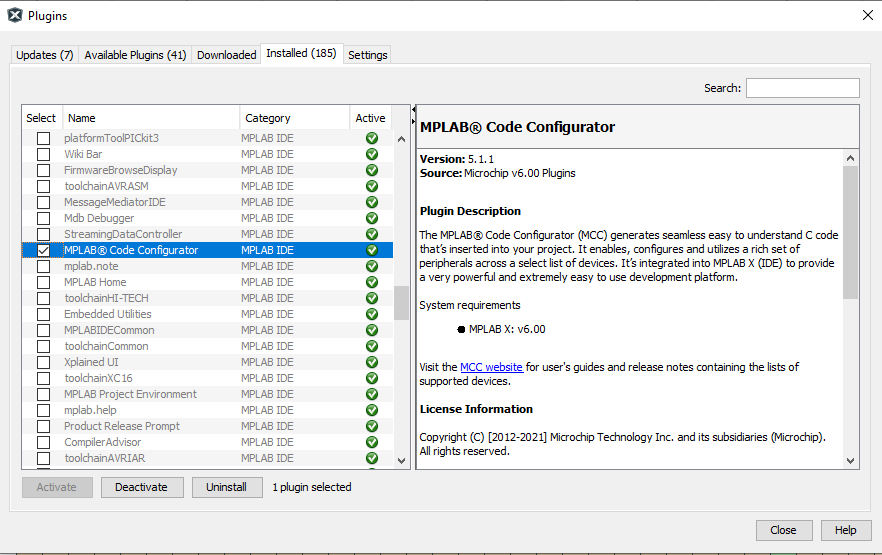
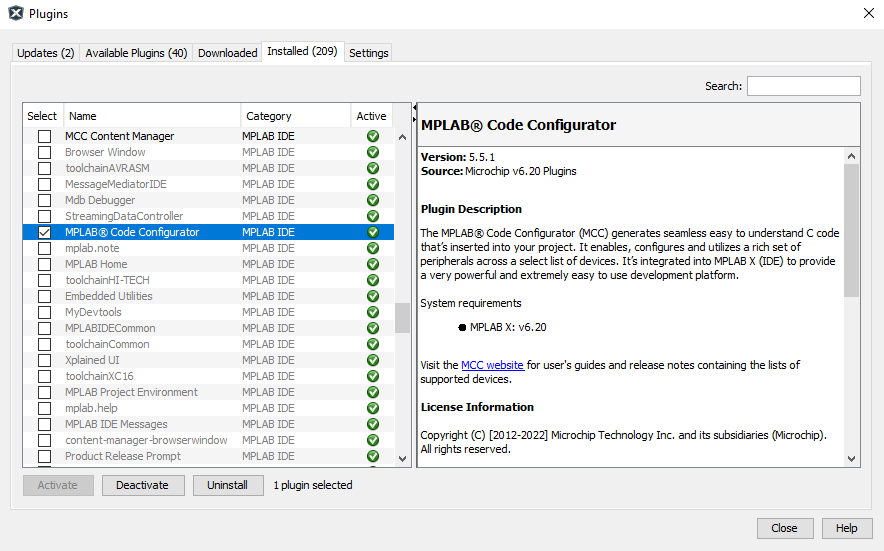
MPAE-15913 Fixed Alignement issue and update the MPLAB X Plugin image

diff --git a/README.md b/README.md
@@ -27,9 +27,10 @@
 -   [Summary](#summary)
 
 <br />
--   **Note:**
- 1. In the below project creation steps where ever RNBD is mentioned is applicable for both RNBD451 and RNBD350 devices.
+- **Note:**
 
+ 1. In the below project creation steps where ever RNBD is mentioned is applicable for both RNBD451 and RNBD350 devices.
+ <br />
  2. The Over-the-Air (OTA) Device Firmware Update (DFU) support is not applicable for RNBD350-based applications because the OTA DFU for RNBD350 is implemented using the Host Microcontroller (MCU) DFU process. OTA is not supported for 8-bit applications due to memory limitation.
 
 # Introduction<a name="introduction"></a>
@@ -315,8 +316,8 @@ Configuration for PIC Basic Data Exchange was completed. Click [here](#rnbd-code
 1. The Transparent UART application uses two instances of UART1 and UART2 (PLIB ---> EUSART1 and EUSART2) for data transfer.<br />
    ![](images/GUID-2588BC61-2739-4821-BF2A-8EBBC69C45E8-low.png)
 
-2.   **Important:** For EUSART Rx1 and Tx1, deselect the checkboxes in the Analog, Slew Rate and Input Level Control columns.
-   ![](images/GUID-6FE8C4EC-D58D-4571-B1FF-EACC4DD81068-low.png)<br />
+2. **Important:** For EUSART Rx1 and Tx1, deselect the checkboxes in the Analog, Slew Rate and Input Level Control columns.<br />
+   ![](images/GUID-6FE8C4EC-D58D-4571-B1FF-EACC4DD81068-low.png)
 
 
 Configuration for PIC Transparent UART was completed. Click [here](#rnbd-code-generation-&-compilation) for the RNBD code generation and compilation section.
